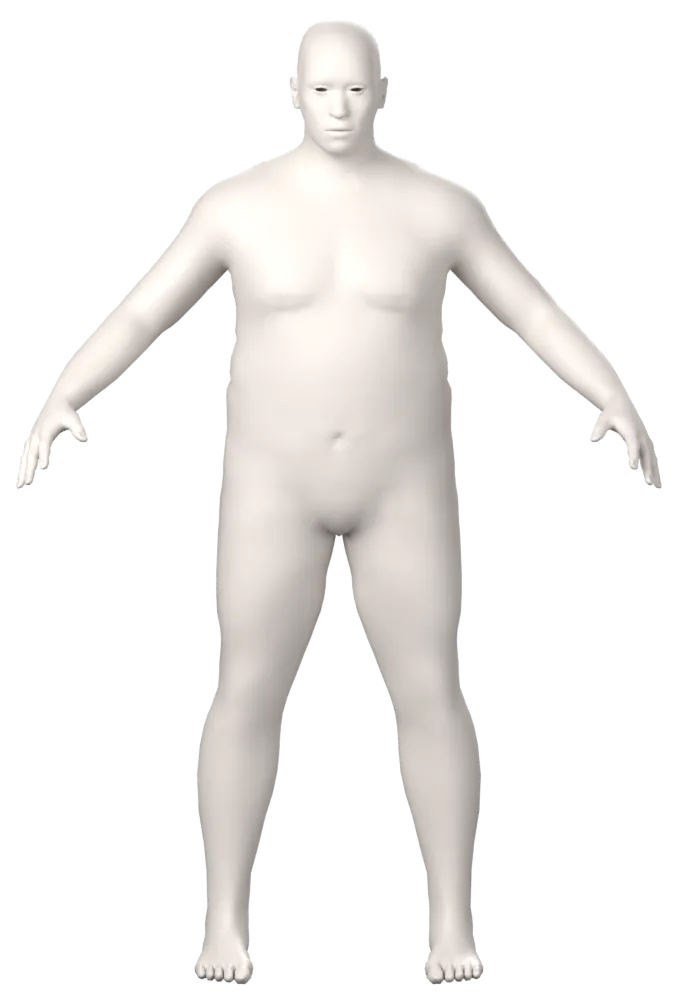
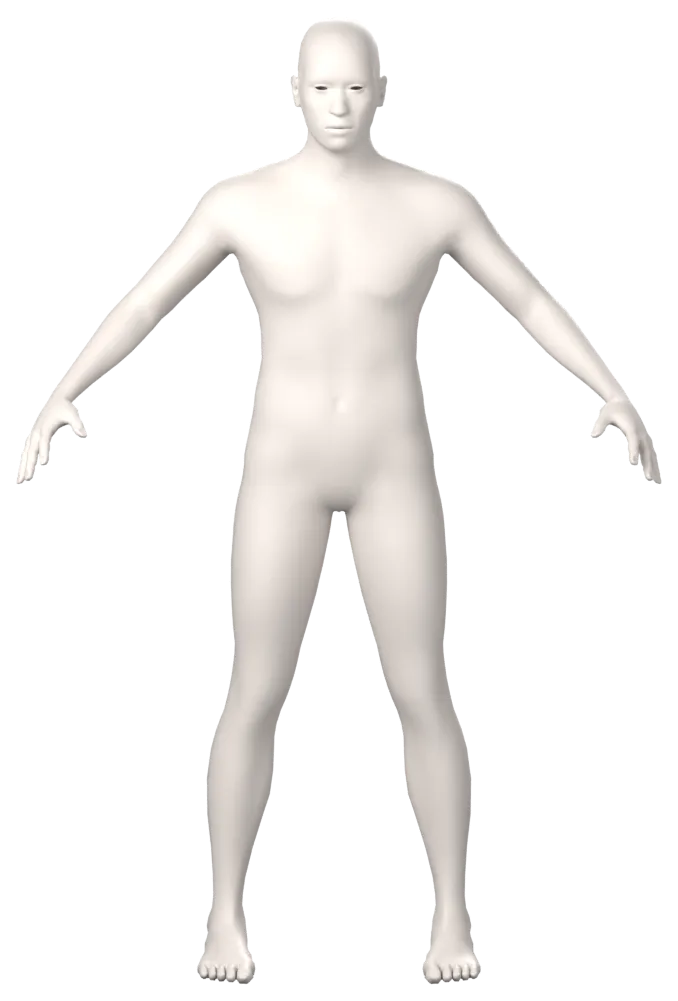
feat: body guide uses a lean, fit standard body
Men 10 (175 cm, chest 98, waist 78) and women 09 (161 cm, 84/65/93) replace the middle shapes,
whose 104 cm waist looked heavy. The chest ring sits at the chest's most forward point.

diff --git a/tools/body-guide/render.py b/tools/body-guide/render.py
@@ -227,8 +227,13 @@ def zr(a, b):
     return bottom + height * a, bottom + height * b
 
 
+# Chest: at the most forward point of the chest (bust point or chest), where a tape goes.
+apex = min(
+    (verts[i] for i in range(len(verts)) if part[i] == 0 and abs(verts[i].x) < 0.15),
+    key=lambda p: p.y,
+)
 rings = {
-    "chest": loop_paths(torso_ring(*zr(0.66, 0.74), "max", {0})),
+    "chest": loop_paths(torso_ring(apex.z - 0.005, apex.z + 0.005, "max", {0})),
     "waist": loop_paths(torso_ring(*zr(0.58, 0.66), "min")),
     "hip": loop_paths(torso_ring(*zr(0.48, 0.56), "max")),
     "upperArm": loop_paths(limb_ring(3, -1, 0.55)),

diff --git a/tools/body-guide/README.md b/tools/body-guide/README.md
@@ -8,12 +8,13 @@ Regenerate (Blender 4.5, about a minute per body; no downloads):
 
 ```sh
 B="C:/Program Files/Blender Foundation/Blender 4.5/blender.exe"
-"$B" -b --factory-startup -P tools/body-guide/render.py -- public/fit-assets/bodies/men-05-0dd22abdda.glb tmp/guide/men
-"$B" -b --factory-startup -P tools/body-guide/render.py -- public/fit-assets/bodies/women-05-18c9e93eab.glb tmp/guide/women
+"$B" -b --factory-startup -P tools/body-guide/render.py -- public/fit-assets/bodies/men-10-95de7c0659.glb tmp/guide/men
+"$B" -b --factory-startup -P tools/body-guide/render.py -- public/fit-assets/bodies/women-09-04d0d18727.glb tmp/guide/women
 node tools/body-guide/build.mjs tmp/guide
 ```
 
 `render.py` writes a clay-shaded PNG with a transparent background and the ring paths in image
 pixels; `build.mjs` crops it, writes `public/fit-assets/guide/{men,women}.webp` and
-`src/lib/fit/body-guide.json`. Bodies are the middle standard shapes (cluster 05) from
+`src/lib/fit/body-guide.json`. Bodies are lean, fit standard shapes (men 10: 175 cm, chest 98, waist 78; women 09: 161 cm,
+chest 84, waist 65, hip 93) from
 [fit-simulation](../fit-simulation/README.md).

diff --git a/docs/CHANGES.md b/docs/CHANGES.md
@@ -6,6 +6,13 @@ affected specialist guidance in the same work. Business rules live in
 Historical entries describe the state at the time, not competing current instructions.
 Newest first.
 
+## 2026-11-21 - Body guide: a fit body instead of a heavy one
+
+- The My measurements figure now uses a lean, fit standard body: the man is 175 cm with a
+  98 cm chest and 78 cm waist, the woman 161 cm with 84 / 65 / 93 cm. The earlier middle shape
+  had a 104 cm waist and looked heavy.
+- The chest ring sits at the fullest point of the chest or bust.
+
 ## 2026-11-21 - My measurements: a realistic body guide
 
 - The drawn figure beside the measurements is replaced by a realistic body rendered in Blender
